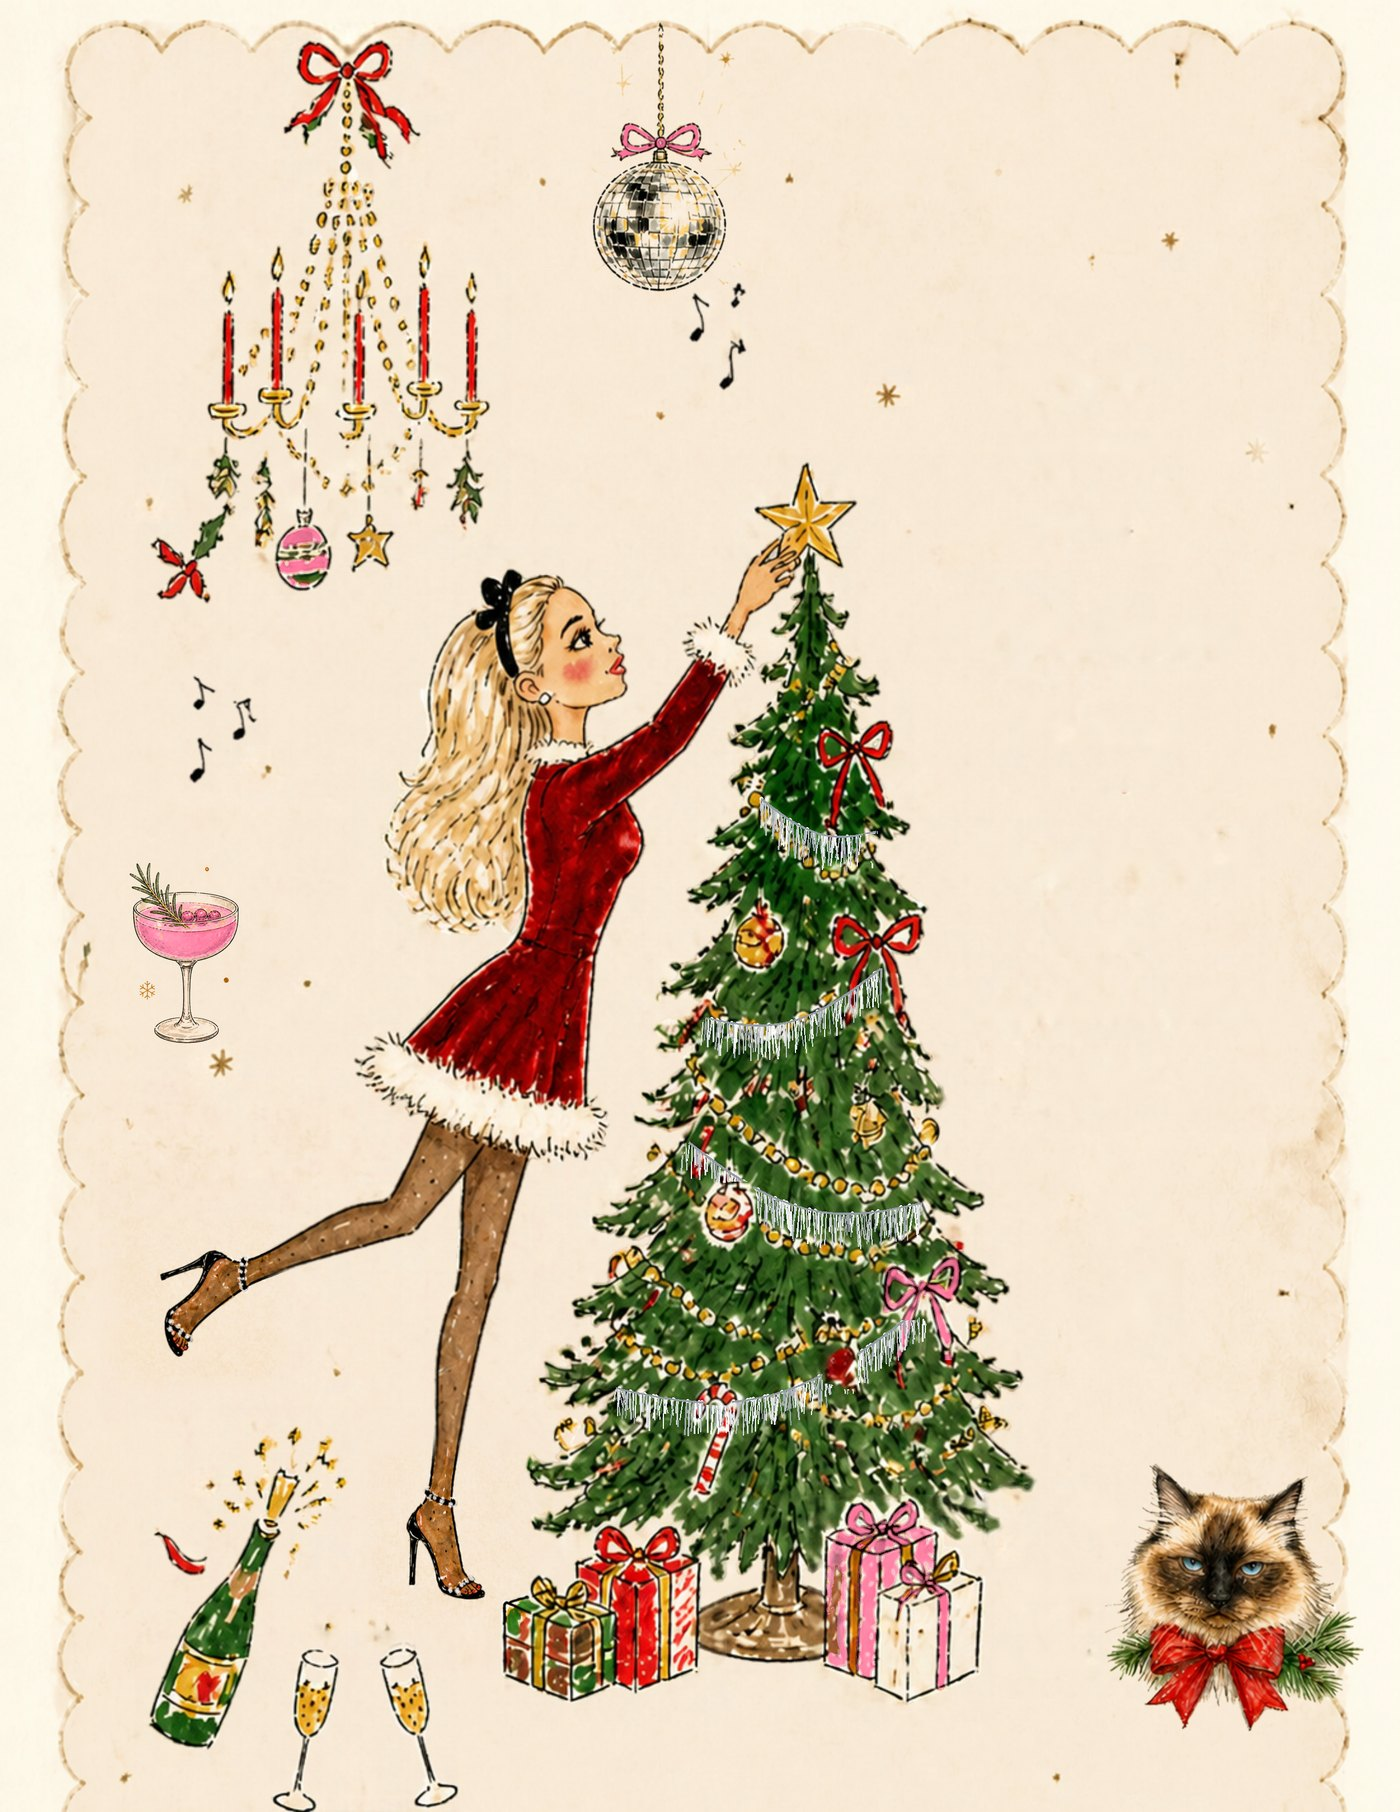
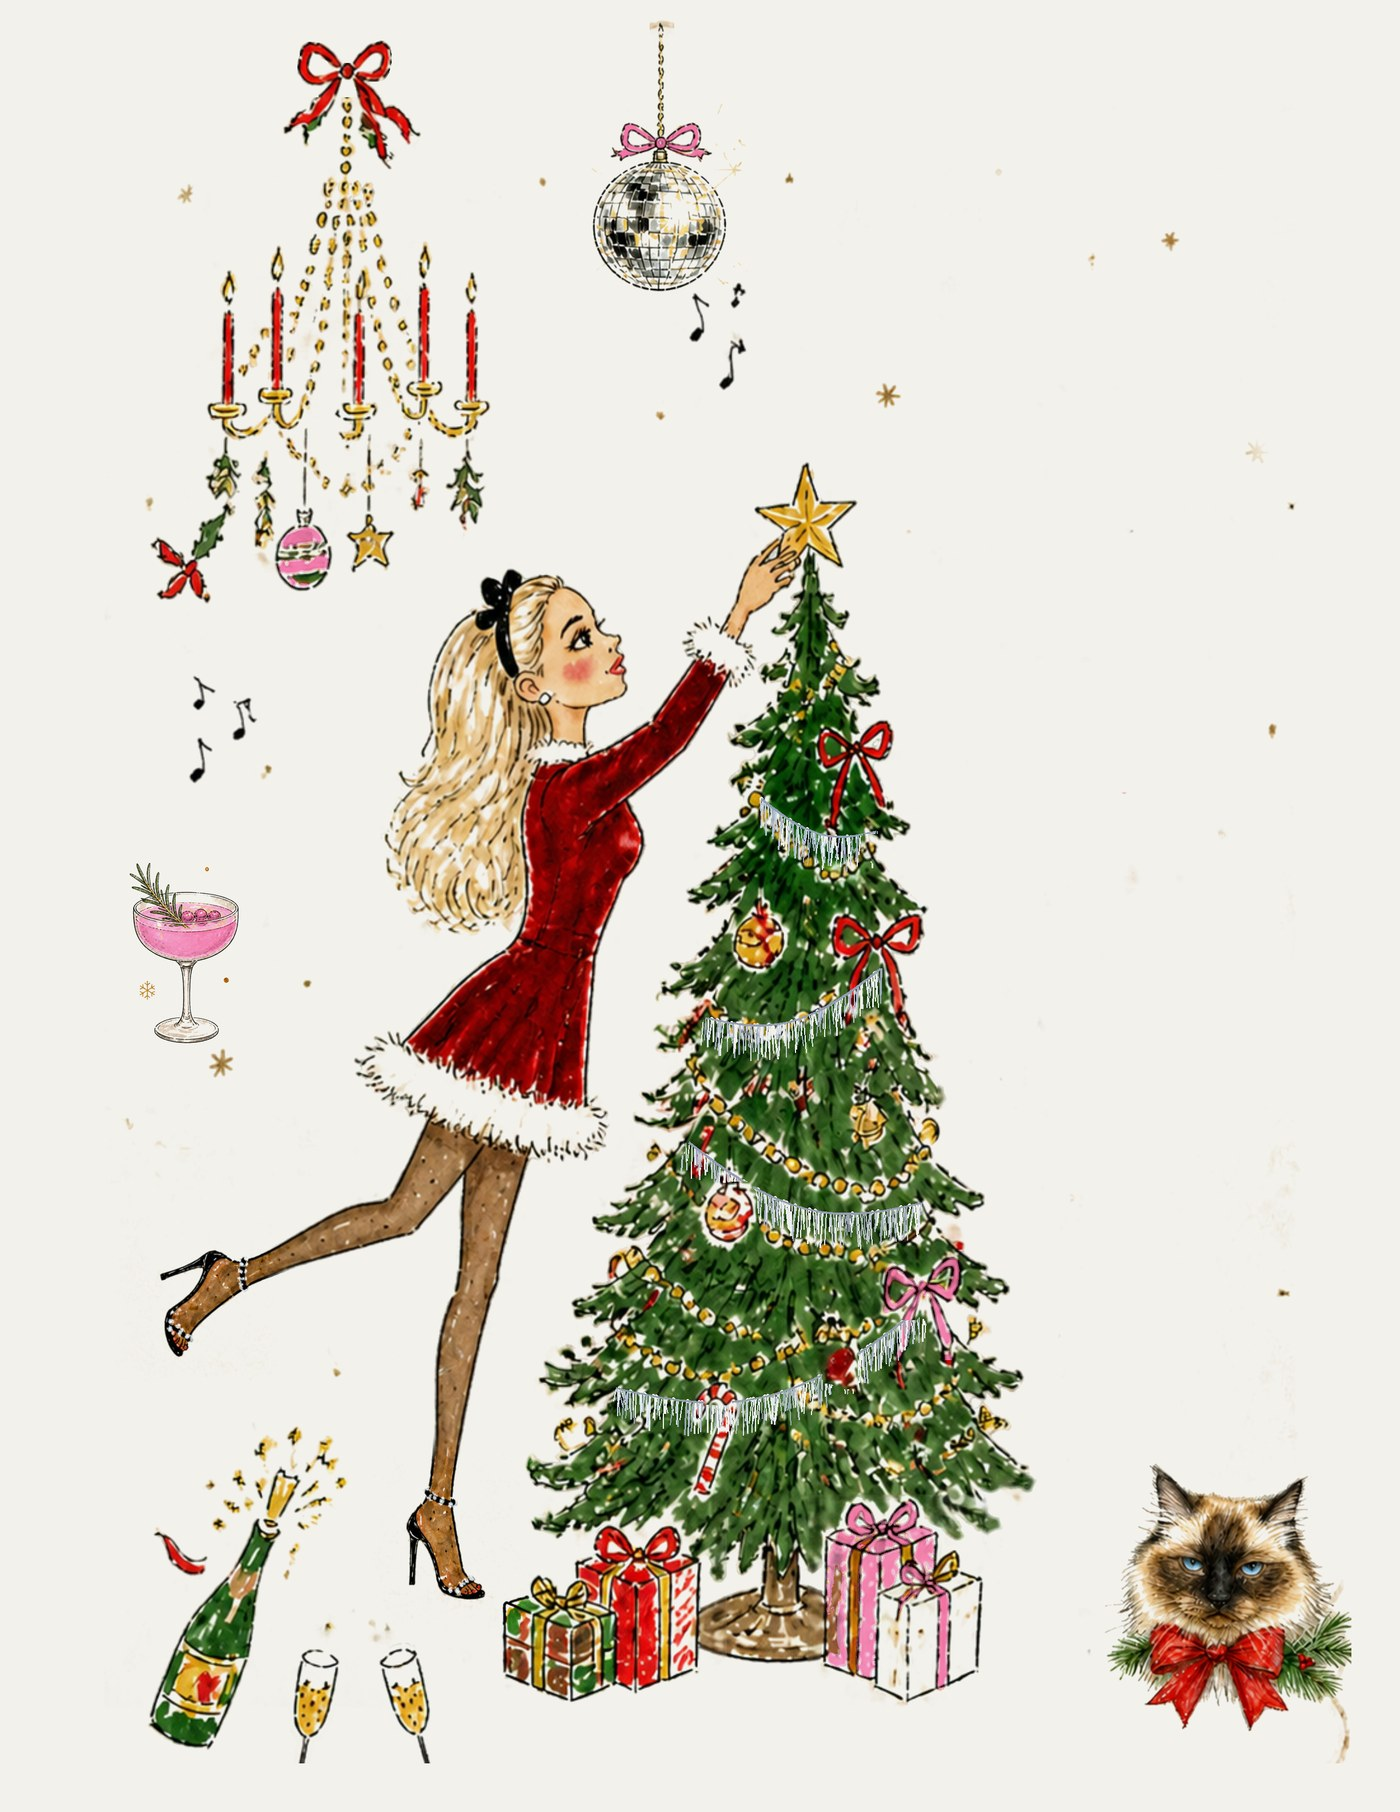
Holiday party: plain ivory background (no scallop edge)
Alexandra liked the plain ivory version better (Nov 20 2026). New art and
text-preview picture without the cream paper and scalloped border; card
shadow removed so the drawing sits right on the page.

Claude-Session: https://claude.ai/code/session_01RKeJJPwsRU8U9jPTDCBUDS

diff --git a/soiree-aae8a7/index.html b/soiree-aae8a7/index.html
@@ -15,7 +15,7 @@
 *{box-sizing:border-box}
 html,body{margin:0;background:var(--ivory);color:var(--ink);font-family:'Cormorant Garamond',Georgia,serif}
 .wrap{max-width:560px;margin:0 auto;padding:16px 16px 48px}
-.stage{position:relative;width:100%;aspect-ratio:700/906;overflow:hidden;border-radius:6px;box-shadow:0 10px 30px rgba(60,40,30,.15)}
+.stage{position:relative;width:100%;aspect-ratio:700/906;overflow:hidden;border-radius:0;box-shadow:none}
 .card{position:absolute;left:0;top:0;width:700px;height:906px;transform-origin:0 0;background:url(art.jpg) 0 0/700px 906px no-repeat}
 .t{position:absolute;color:var(--ink);font-family:'La Belle Aurore',cursive;text-align:center;line-height:1.25}
 .inv{left:420px;top:56px;width:260px;font-size:19px}
